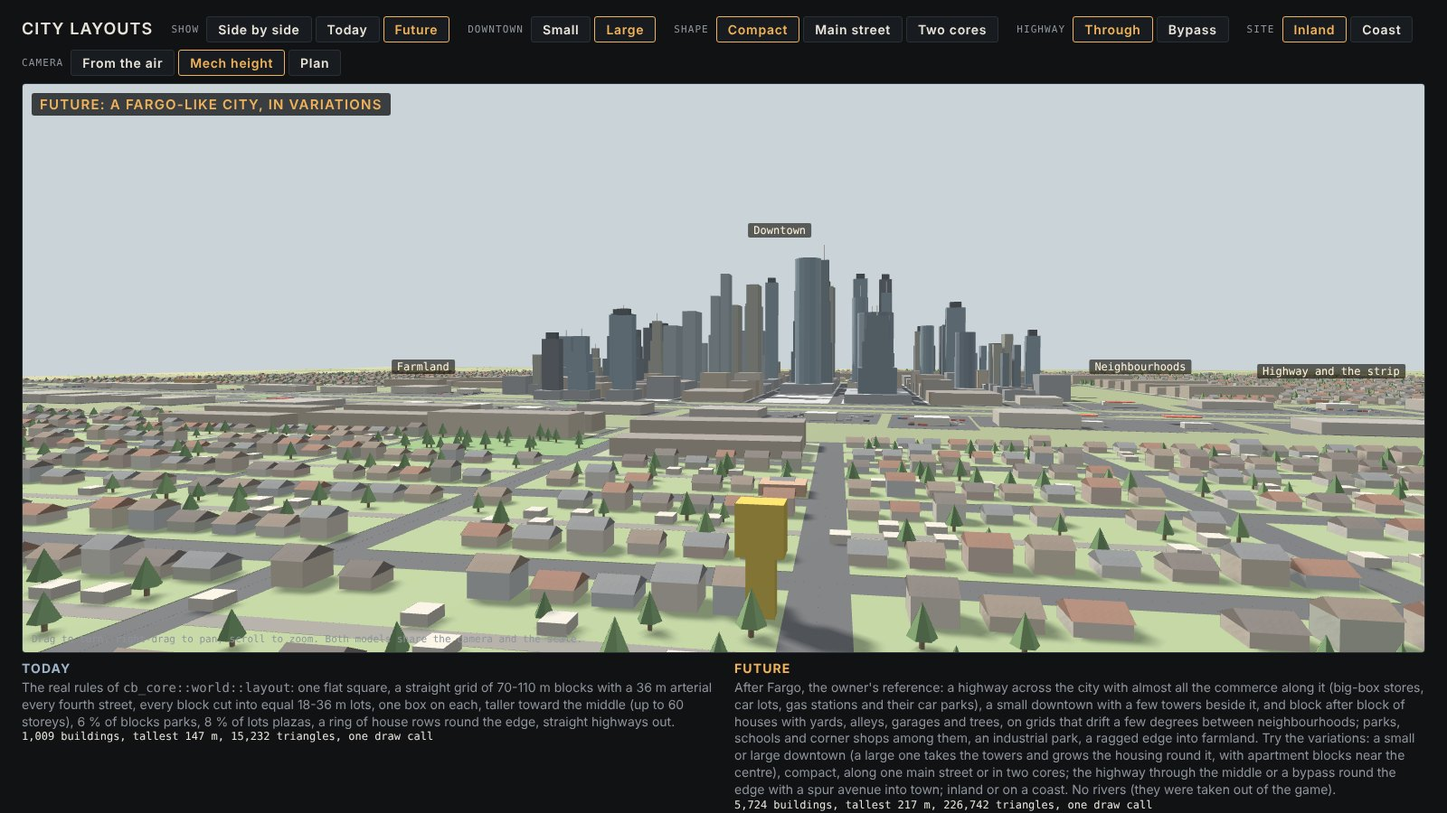
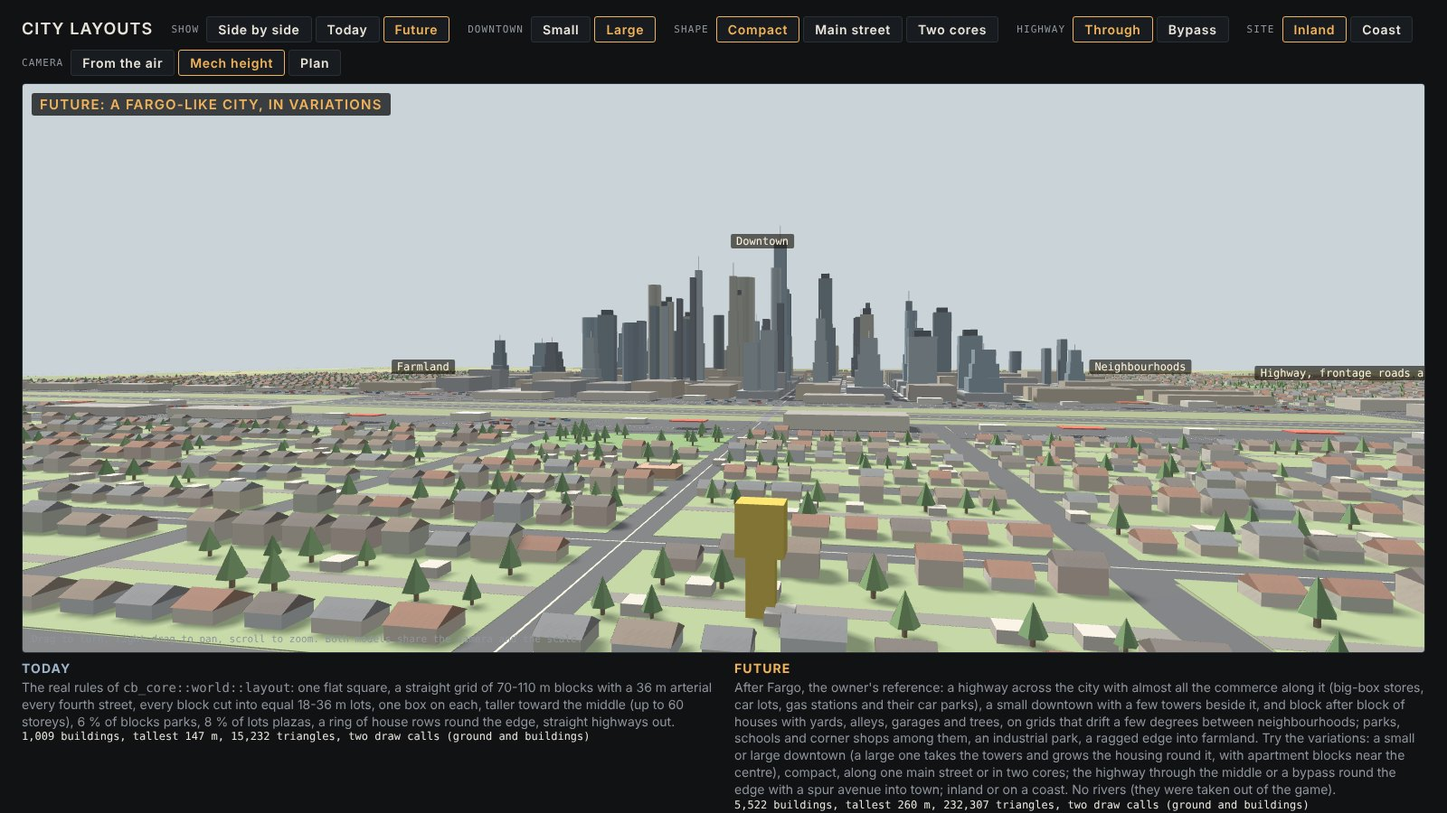
city-districts: one connected street network, every block built
The owner: "how do cars drive if the roads dont connect?", "theres a lot of dead space between the sections of the
city", "seems like a waste of land". The future city's streets come first now: one grid for the whole city, bent by
a slow warp (close to a grid but not quite), every block a cell of it (houses, downtown, strip, park, school, works,
flats), so every street joins the next and no land inside the edge lies empty. Frontage roads and an interchange at
every arterial join the highway; the arterials run on into the farmland as section roads that meet the bypass.

Claude-Session: https://claude.ai/code/session_01B11fSmuPQw2sggTxXyhryb

diff --git a/docs/artifacts/city-layouts/city_layouts.html b/docs/artifacts/city-layouts/city_layouts.html
@@ -260,15 +260,17 @@ function buildToday() {
   return g;
 }
 
-// ---------------------------------------------------------------- FUTURE: a Fargo-like city, in variations
+// ---------------------------------------------------------------- FUTURE: a Fargo-like city on one street network
 // After the owner's reference (2026-11-04, Fargo): "a smaller city with some tall buildings in the middle, and lots of
 // housing around. It is close to a grid but not quite, it has a highway cutting through the city ... where almost all
-// the commerce is centered around. houses are arranged in many blocks". Then: "have a couple of variations of larger
+// the commerce is centered around. houses are arranged in many blocks"; "have a couple of variations of larger
 // downtowns", "another kind of highway that doesnt quite cut through the downtown", "different shapes of downtowns",
-// "I also like the bigger downtown we had, but we would need to scale up housing to match". No rivers (they were taken
-// out of the game). Options: the downtown small or large (a large one grows the housing round it 1.45 times across),
-// its shape compact, along one main street, or two cores; the highway through the middle or a bypass round the south
-// with a spur avenue into town; inland or on a coast.
+// "scale up housing to match that larger downtown"; no rivers. Then: "how do cars drive if the roads dont connect?".
+// So the streets come first: one grid for the whole city, gently bent (close to a grid but not quite), every street
+// running on to the next; every block is a cell of it (houses, downtown, the strip, a park, a school, the works);
+// frontage roads join the highway, the arterials cross it at interchanges, and carry on into the farmland as section
+// roads that meet the bypass. Options: downtown small or large (a large one grows the city 1.45 times), its shape,
+// the highway through or a bypass with a spur avenue, inland or coast.
 function buildFuture(o) {
   const g = new Geo(), rnd = mulberry32(23), labels = [];
   const R = (a, b) => a + (b - a) * rnd(), pick = a => a[Math.floor(rnd() * a.length)];
@@ -276,185 +278,187 @@ function buildFuture(o) {
   function segDist(p, a, b) { const dx = b[0] - a[0], dz = b[1] - a[1], l2 = dx * dx + dz * dz;
     const t = Math.max(0, Math.min(1, ((p[0] - a[0]) * dx + (p[1] - a[1]) * dz) / l2)); return Math.hypot(p[0] - a[0] - dx * t, p[1] - a[1] - dz * t); }
   function lineDist(p, pts) { let d = 1e9; for (let i = 0; i + 1 < pts.length; i++) d = Math.min(d, segDist(p, pts[i], pts[i + 1])); return d; }
-  // walk a polyline every `step` metres: the point and the unit direction there
-  function walk(pts, step, fn) { for (let i = 0; i + 1 < pts.length; i++) { const [x0, z0] = pts[i], [x1, z1] = pts[i + 1], l = Math.hypot(x1 - x0, z1 - z0);
-    for (let t = 0; t < l; t += step()) fn([x0 + (x1 - x0) * t / l, z0 + (z1 - z0) * t / l], [(x1 - x0) / l, (z1 - z0) / l]); } }
+
+  // ---- the grid: blocks 118 x 74 m between 14 m streets (22 m arterials every fourth line), bent by a slow warp
+  const SU = 132, SV = 88, ST = 14, ART = 22;
+  const warp = (u, v) => [u + 28 * Math.sin(v / 900 + 0.4) + 14 * Math.sin(u / 1300 + 1.1), v + 24 * Math.sin(u / 800 + 2.0) + 12 * Math.sin(v / 1100)];
+  const node = (i, j) => warp(i * SU, j * SV);
+  const centre = (i, j) => warp((i + 0.5) * SU, (j + 0.5) * SV);
+  const N = Math.ceil(AREA / SU) + 1, M = Math.ceil(AREA / SV) + 1;
+  const artI = i => ((i % 4) + 4) % 4 === 0, artJ = j => ((j % 6) + 6) % 6 === 0;
 
   const edgeR = p => { const a = Math.atan2(p[1], p[0]); return S * (1020 + 110 * Math.sin(3 * a + 0.7) + 60 * Math.sin(7 * a + 2.1)); };
   const shoreZ = x => -S * 1180 + 60 * Math.sin(x / 290);
   const wet = p => COAST && p[1] < shoreZ(p[0]) + 10;
 
-  // farmland round the city
+  // ---- the highway: through the city south of the downtown, or a bypass round the south
+  const hwR = S * 1200;
+  let HW;
+  if (!BYPASS) HW = [[-AREA, -110], [-700, -80], [-200, -60], [300, -40], [800, -10], [AREA, 40]].map(([x, z]) => [x, z * S]);
+  else { HW = [[-AREA, -hwR * 0.42]]; for (let a = 200; a <= 340; a += 5) { const r = a * Math.PI / 180; HW.push([Math.cos(r) * hwR, Math.sin(r) * hwR * 0.82]); } HW.push([AREA, -hwR * 0.42]); }
+  const hwDist = p => lineDist(p, HW);
+
+  // ---- the downtown's cells, by shape and size
+  const down = new Map();          // "i,j" -> heart 0..1, core
+  const addDown = (i, j, heart, core = 0) => down.set(i + ',' + j, [heart, core]);
+  const j0 = BYPASS ? -1 : 1;      // north of a highway through the city
+  if (o.shape === 'compact') {
+    const ni = LARGE ? 7 : 4, nj = LARGE ? 7 : 4;
+    for (let i = 0; i < ni; i++) for (let j = 0; j < nj; j++) {
+      const di = (i - (ni - 1) / 2) / (ni / 2), dj = (j - (nj - 1) / 2) / (nj / 2);
+      if (di * di + dj * dj > 1.15) continue;
+      addDown(i - Math.floor(ni / 2), j0 + j, 1 - Math.min(1, Math.hypot(di, dj)));
+    }
+  } else if (o.shape === 'street') {
+    const n = LARGE ? 13 : 8, rows = LARGE ? 3 : 2;
+    for (let i = 0; i < n; i++) for (let j = 0; j < rows; j++) addDown(i - Math.floor(n / 2), j0 + j, 1 - Math.abs(i - (n - 1) / 2) / (n / 2) * 0.8);
+  } else {
+    const n = LARGE ? 4 : 3, cores = [[-Math.round(5 * S), j0], [Math.round(3 * S), j0 + Math.round(3 * S)]];
+    cores.forEach(([ci, cj], k) => { for (let i = 0; i < n; i++) for (let j = 0; j < n; j++) addDown(ci + i - 1, cj + j, 1 - Math.hypot(i - (n - 1) / 2, j - (n - 1) / 2) / n, k); });
+  }
+  const downCells = [...down.keys()].map(k => k.split(',').map(Number));
+  const downC = downCells.reduce((a, [i, j]) => { const c = centre(i, j); return [a[0] + c[0] / downCells.length, a[1] + c[1] / downCells.length]; }, [0, 0]);
+  const spurI = Math.round(downCells.reduce((a, [i]) => a + i, 0) / downCells.length / 4) * 4;   // an arterial line
+  const downJmin = Math.min(...downCells.map(([, j]) => j));
+
+  // ---- what each cell is
+  const kindCache = new Map();
+  function kind(i, j) {
+    const key = i + ',' + j; if (kindCache.has(key)) return kindCache.get(key);
+    const c = centre(i, j), r = Math.hypot(c[0], c[1]);
+    let k;
+    const corners = [node(i, j), node(i + 1, j), node(i, j + 1), node(i + 1, j + 1)];
+    if (corners.some(wet) || wet(c)) k = 'water';
+    else if (down.has(key)) k = 'down';
+    else if (r > edgeR(c)) k = 'rural';
+    else if (!BYPASS && corners.some(q => hwDist(q) < 34)) k = 'road';
+    else if (!BYPASS && hwDist(c) < 190) k = 'strip';
+    else if (BYPASS && (i === spurI || i === spurI - 1) && j < downJmin) k = 'strip';
+    else if (c[0] < -620 * S && Math.abs(c[1] - (BYPASS ? 200 : -260 * S)) < 190) k = 'works';
+    else {
+      const pr = mulberry32(5000 + (i + 60) * 197 + (j + 60));
+      const roll = pr(), dDown = Math.hypot(c[0] - downC[0], c[1] - downC[1]);
+      if (roll < 0.05 || (r > edgeR(c) - 130 && roll < 0.1)) k = 'park';
+      else if (roll < 0.075) k = 'school';
+      else if (LARGE && dDown < 650 && roll < 0.75) k = 'flats';
+      else k = 'houses';
+    }
+    kindCache.set(key, k); return k;
+  }
+  const built = (i, j) => !['rural', 'water', 'road'].includes(kind(i, j));
+
+  // farmland, the sea
   g.quad([-AREA, 0, -AREA], [AREA, 0, -AREA], [AREA, 0, AREA], [-AREA, 0, AREA], C.rural);
   for (let x = -AREA; x < AREA; x += 160) for (let z = -AREA; z < AREA; z += 160) {
     const c = [x + 80, z + 80];
-    if (Math.hypot(c[0], c[1]) < edgeR(c) - 40 || (COAST && z < shoreZ(c[0]) + 80)) continue;
-    g.box(c[0], c[1], 156, 156, 0, 0.03, col(pick(['#6f7d47', '#8a8a52', '#5d7040', '#9b9060', '#74804a'])));
+    if (Math.hypot(c[0], c[1]) < edgeR(c) + 60 || (COAST && z < shoreZ(c[0]) + 80)) continue;
+    g.box(c[0], c[1], 150, 150, 0, 0.03, col(pick(['#6f7d47', '#8a8a52', '#5d7040', '#9b9060', '#74804a'])));
   }
   if (COAST) { const sea = []; for (let x = -AREA; x <= AREA; x += 40) sea.push([x, shoreZ(x)]);
     for (let i = 0; i + 1 < sea.length; i++) g.quad([sea[i][0], 0.1, -AREA], [sea[i + 1][0], 0.1, -AREA], [sea[i + 1][0], 0.1, sea[i + 1][1]], [sea[i][0], 0.1, sea[i][1]], C.water);
     g.ribbon(sea.map(([x, z]) => [x, z + 8]), 18, 0.12, col('#c9b98f')); }
 
-  // ---- the downtown's blocks, by shape and size (92 m blocks, 14 m streets)
-  const B = 92, downBlocks = [];      // [centre x, z, heart 0..1, core]
-  if (o.shape === 'compact') {
-    const nx = LARGE ? 8 : 5, nz = LARGE ? 6 : 3, cx0 = 60, cz0 = (BYPASS ? -60 : 100) + (nz - 1) * B / 2;
-    for (let i = 0; i < nx; i++) for (let j = 0; j < nz; j++) {
-      const c = [cx0 + (i - (nx - 1) / 2) * B, cz0 + (j - (nz - 1) / 2) * B];
-      if (LARGE && (i === 0 || i === nx - 1) && (j === 0 || j === nz - 1)) continue;     // rounded corners
-      downBlocks.push([...c, 1 - Math.min(1, Math.hypot(c[0] - cx0, c[1] - cz0) / (B * (LARGE ? 4 : 2.4))), 0]);
-    }
-  } else if (o.shape === 'street') {
-    const n = LARGE ? 15 : 9, rows = LARGE ? 3 : 2, z0 = BYPASS ? -20 : 110;
-    for (let i = 0; i < n; i++) for (let j = 0; j < rows; j++) {
-      const c = [(i - (n - 1) / 2) * B, z0 + j * B + 0.04 * (i - n / 2) * B];         // the main street bends a little
-      downBlocks.push([...c, 1 - Math.abs(i - (n - 1) / 2) / (n / 2) * 0.8, 0]);
-    }
-  } else {
-    const cores = [[-300 * S, (BYPASS ? -40 : 140)], [320 * S, (BYPASS ? 120 : 240)]], n = LARGE ? 4 : 3;
-    cores.forEach(([cx, cz], k) => { for (let i = 0; i < n; i++) for (let j = 0; j < n; j++) {
-      const c = [cx + (i - (n - 1) / 2) * B, cz + (j - (n - 1) / 2) * B];
-      downBlocks.push([...c, 1 - Math.min(1, Math.hypot(c[0] - cx, c[1] - cz) / (B * n * 0.75)), k]);
-    } });
+  // ---- the streets: every grid segment beside a built cell; arterials and section roads run on through the farmland
+  const STREET = col('#2c2e32'), COUNTY = col('#55565a');
+  let segs = 0;
+  for (let i = -N; i <= N; i++) for (let j = -M; j < M; j++) {              // lines of constant u (running along v)
+    const a = node(i, j), b = node(i, j + 1), m = [(a[0] + b[0]) / 2, (a[1] + b[1]) / 2];
+    if (wet(m) || wet(a) || wet(b) || Math.max(Math.abs(a[0]), Math.abs(a[1]), Math.abs(b[0]), Math.abs(b[1])) > AREA) continue;
+    const cityside = built(i - 1, j) || built(i, j);
+    const nearHw = hwDist(m) < 40;
+    if (nearHw && !artI(i)) continue;                                        // only arterials cross the highway
+    if (cityside) { g.ribbon([a, b], artI(i) || i === spurI ? ART : ST, 0.06, STREET); segs++; if (artI(i)) g.ribbon([a, b], 0.6, 0.1, C.lane); }
+    else if (artI(i)) { g.ribbon([a, b], 9, 0.05, COUNTY); segs++; }       // a section road out in the fields
   }
-  const inDown = (p, pad = 50) => downBlocks.some(([x, z]) => Math.abs(p[0] - x) < B / 2 + pad && Math.abs(p[1] - z) < B / 2 + pad);
-  const downC = downBlocks.reduce((a, [x, z]) => [a[0] + x / downBlocks.length, a[1] + z / downBlocks.length], [0, 0]);
-
-  // ---- the highway: through the middle, beside the downtown; or a bypass round the south with a spur avenue in
-  const hwR = S * 1180;
-  let HW, SPUR = null;
-  if (!BYPASS) HW = [[-AREA, -70], [-700, -40], [-200, -10], [300, 15], [800, 45], [AREA, 95]].map(([x, z]) => [x, z * S]);
-  else {
-    HW = [[-AREA, -hwR * 0.42]];
-    for (let a = 200; a <= 340; a += 6) { const r = a * Math.PI / 180; HW.push([Math.cos(r) * hwR, Math.sin(r) * hwR * 0.82]); }
-    HW.push([AREA, -hwR * 0.42]);
-    SPUR = [[0, -hwR * 0.82], [10, -hwR * 0.5], [downC[0] * 0.5, -260], [downC[0], downC[1] - (B * 1.5)]];
+  for (let j = -M; j <= M; j++) for (let i = -N; i < N; i++) {              // lines of constant v (running along u)
+    const a = node(i, j), b = node(i + 1, j), m = [(a[0] + b[0]) / 2, (a[1] + b[1]) / 2];
+    if (wet(m) || wet(a) || wet(b) || Math.max(Math.abs(a[0]), Math.abs(a[1]), Math.abs(b[0]), Math.abs(b[1])) > AREA) continue;
+    if (!BYPASS && hwDist(m) < 40) continue;                                 // nothing runs along inside the highway
+    const cityside = built(i, j - 1) || built(i, j);
+    if (cityside) { g.ribbon([a, b], artJ(j) ? ART : ST, 0.07, STREET); segs++; if (artJ(j)) g.ribbon([a, b], 0.6, 0.11, C.lane); }
+    else if (artJ(j)) { g.ribbon([a, b], 9, 0.05, COUNTY); segs++; }
   }
-  const roads = SPUR ? [HW, SPUR] : [HW];
+  // the highway and its links: frontage roads alongside (through), an interchange where every arterial meets it
   g.ribbon(HW, 34, 0.3, C.highway); g.ribbon(HW, 0.8, 0.34, C.lane);
-  if (!BYPASS) for (const side of [-1, 1]) g.ribbon(HW.map(([x, z]) => [x, z + side * 46]), 12, 0.22, col('#2f3135'));
-  if (SPUR) { g.ribbon(SPUR, 26, 0.26, col('#2c2e32')); g.ribbon(SPUR, 0.8, 0.3, C.lane); const j = SPUR[0]; g.disk(j[0], j[1], 46, 0.28, C.highway, 20); g.disk(j[0], j[1], 26, 0.32, C.park, 16); }
-  else for (const x of [-700, -250, 250, 700]) { let z = 0; for (let i = 0; i + 1 < HW.length; i++) if (x >= HW[i][0] && x <= HW[i + 1][0]) z = HW[i][1] + (HW[i + 1][1] - HW[i][1]) * (x - HW[i][0]) / (HW[i + 1][0] - HW[i][0]);
-    g.disk(x, z, 40, 0.28, C.highway, 20); g.disk(x, z, 22, 0.32, C.park, 16); }
-  labels.push([BYPASS ? 'Bypass' : 'Highway and the strip', BYPASS ? [-hwR * 0.6, 40, -hwR * 0.7] : [-450, 40, -30]]);
-  if (SPUR) labels.push(['Spur avenue and the strip', [SPUR[1][0] + 60, 40, SPUR[1][1]]]);
+  if (!BYPASS) for (const side of [-1, 1]) { const f = HW.map(([x, z]) => [x, z + side * 30]).filter(p => Math.hypot(p[0], p[1]) < edgeR(p) + 40); if (f.length > 1) g.ribbon(f, 10, 0.24, STREET); }
+  for (let i = -N; i <= N; i++) { if (!artI(i)) continue;
+    for (let j = -M; j < M; j++) { const a = node(i, j), b = node(i, j + 1), m = [(a[0] + b[0]) / 2, (a[1] + b[1]) / 2];
+      if (hwDist(m) < 30 && !wet(m)) { g.disk(m[0], m[1], 46, 0.28, C.highway, 20); g.disk(m[0], m[1], 26, 0.32, C.park, 16); g.ribbon([a, b], 26, 1.4, col('#6d6a64')); } } }
+  labels.push([BYPASS ? 'Bypass' : 'Highway, frontage roads and the strip', BYPASS ? [-hwR * 0.6, 40, -hwR * 0.7] : [-450, 40, -60 * S]]);
+  if (BYPASS) labels.push(['Spur avenue and the strip', [...((p => [p[0] + 40, 40, p[1]])(centre(spurI, downJmin - 3)))].map((v, k) => k === 1 ? 40 : v)]);
+  labels.push(['Section roads', [AREA * 0.8, 10, -AREA * 0.35]]);
 
-  // ---- the strip: big-box stores, car lots and gas stations with their car parks, along the commerce road (the
-  // highway through the middle, or the spur avenue and the bypass near its interchange)
-  const stripLines = BYPASS ? [SPUR, HW.filter(([x]) => Math.abs(x) < 420)] : [HW];
-  const stripReach = BYPASS ? 150 : 190;
-  for (const line of stripLines) walk(line, () => R(70, 120), (p, d) => {
-    for (const side of [-1, 1]) {
-      const depth = R(70, 120), off = (BYPASS ? 24 : 56) + depth / 2, n = [-d[1] * side, d[0] * side];
-      const c = [p[0] + n[0] * off, p[1] + n[1] * off], ang = Math.atan2(d[1], d[0]);
-      if (Math.hypot(c[0], c[1]) > edgeR(c) + 60 || wet(c) || inDown(c, 30)) continue;
-      if (roads.some(r => r !== line && lineDist(c, r) < depth / 2 + 20)) continue;
-      const w = R(50, 100), toward = [-n[0], -n[1]];
-      g.box(c[0], c[1], w + 14, depth, 0, 0.05, C.asphalt, ang);
-      const back = [c[0] - toward[0] * depth * 0.2, c[1] - toward[1] * depth * 0.2], kind = rnd();
-      if (kind < 0.55) { const h = R(7, 11); g.box(back[0], back[1], w * 0.8, depth * 0.5, 0.05, h, col(pick(['#c9c2b2', '#b8b0a0', '#d3cbb8', '#a9a39a'])), ang, col('#7a7670')); g.note(h); }
-      else if (kind < 0.75) { g.box(back[0], back[1], 18, 10, 0.05, 4, col('#d8d8d2'), ang); g.box(c[0] + toward[0] * 14, c[1] + toward[1] * 14, 24, 14, 5.5, 0.8, col('#c8352a'), ang); g.note(6); }
-      else { g.box(back[0], back[1], 26, 18, 0.05, 6, col('#e2ddd2'), ang); for (let i = 0; i < 24; i++) { const u = R(-w / 2, w / 2), v = R(-depth / 3, depth / 6);
-        g.box(c[0] + d[0] * u + toward[0] * v, c[1] + d[1] * u + toward[1] * v, 4.6, 1.9, 0.05, 1.5, col(pick(['#b23a2e', '#2f5d8a', '#e9e6de', '#3a3a3a', '#8a8f96'])), ang); } g.note(6); }
-    }
-  });
-
-  // ---- downtown: a large one takes the towers we had before (setback tiers, round towers, twin slabs, crowns)
-  function tower(x, z, lw, ld, H, podium) {
+  // ---- buildings
+  function tower(x, z, lw, ld, H, podium, ang) {
     const style = rnd(), tw = Math.min(lw, ld) * R(0.5, 0.75), glass = col(pick(['#5f7c94', '#4c5f72', '#7d95a6', '#8a8f86', '#3f4a55']));
-    g.box(x, z, lw, ld, 0.25, podium, col('#7d858c'));
-    if (style < 0.35) { let y = podium, s2 = 1; for (let t = 0; t < 3; t++) { const hh = (H - podium) / 3; g.box(x, z, tw * s2, tw * s2 * R(0.8, 1.2), y, hh, glass); y += hh; s2 *= 0.78; } g.cyl(x, z, 0.6, y, H * 0.12, col('#d9d9d9'), 4); }
+    g.box(x, z, lw, ld, 0.25, podium, col('#7d858c'), ang);
+    if (style < 0.35) { let y = podium, s2 = 1; for (let t = 0; t < 3; t++) { const hh = (H - podium) / 3; g.box(x, z, tw * s2, tw * s2 * R(0.8, 1.2), y, hh, glass, ang); y += hh; s2 *= 0.78; } g.cyl(x, z, 0.6, y, H * 0.12, col('#d9d9d9'), 4); }
     else if (style < 0.55) g.cyl(x, z, tw / 2, podium, H - podium, glass, 14);
-    else if (style < 0.75) { g.box(x - lw / 5, z, tw * 0.45, tw, podium, H - podium, glass); g.box(x + lw / 5, z, tw * 0.45, tw, podium, (H - podium) * 0.8, glass); }
-    else { g.box(x, z, tw, tw * 0.6, podium, H - podium, glass); g.box(x, z, tw * 0.6, tw * 0.4, H, 8, col('#2e353c')); }
+    else if (style < 0.75) { const dx = Math.cos(ang) * lw / 5, dz = Math.sin(ang) * lw / 5; g.box(x - dx, z - dz, tw * 0.45, tw, podium, H - podium, glass, ang); g.box(x + dx, z + dz, tw * 0.45, tw, podium, (H - podium) * 0.8, glass, ang); }
+    else { g.box(x, z, tw, tw * 0.6, podium, H - podium, glass, ang); g.box(x, z, tw * 0.6, tw * 0.4, H, 8, col('#2e353c'), ang); }
     g.note(H * 1.1);
   }
-  for (const [cx, cz, heart, core] of downBlocks) {
-    g.box(cx, cz, B, B, 0, 0.04, C.asphalt); g.box(cx, cz, B - 14, B - 14, 0, 0.25, C.pavement);
-    const old = o.shape === 'twin' && core === 0;           // the twin's old core stays low and brick
-    const lots = rnd() < 0.5 ? [[-19, -19, 36], [19, -19, 36], [-19, 19, 36], [19, 19, 36]] : [[0, 0, 74]];
-    for (const [lx, lz, size] of lots) {
-      if (rnd() < 0.1) continue;
-      const towerChance = old ? 0.05 : (LARGE ? 0.3 + 0.6 * heart : 0.15 + 0.4 * heart);
-      if (rnd() < towerChance) {
-        const H = LARGE ? 60 + heart * R(80, 190) : 40 + heart * R(20, 50);
-        tower(cx + lx, cz + lz, size - 2, size - 2, H, R(9, 16));
-      } else {
-        const h = (old ? R(3, 7) : R(3, 8)) * 3.8, k2 = col(old ? pick(['#a8714f', '#9b5a43', '#b5865f', '#8e4b32']) : pick(['#a99a86', '#8f8a82', '#b7a58b', '#7d8790', '#c2b8a6']));
-        g.box(cx + lx, cz + lz, size - 2, size - 2, 0.25, h, k2, 0, col('#5f5a55')); g.note(h);
+  const BW = SU - ST, BD = SV - ST, ALLEY = 6;
+  for (let i = -N; i < N; i++) for (let j = -M; j < M; j++) {
+    const k = kind(i, j); if (!built(i, j)) continue;
+    // the cell's own frame: its centre, and its axes from the bent grid
+    const c = centre(i, j), ex0 = warp((i + 1) * SU, (j + 0.5) * SV), ez0 = warp((i + 0.5) * SU, (j + 1) * SV);
+    const ex = [(ex0[0] - c[0]) / (SU / 2), (ex0[1] - c[1]) / (SU / 2)], ez = [(ez0[0] - c[0]) / (SV / 2), (ez0[1] - c[1]) / (SV / 2)];
+    const ang = Math.atan2(ex[1], ex[0]);
+    const W = (x, z) => [c[0] + ex[0] * x + ez[0] * z, c[1] + ex[1] * x + ez[1] * z];
+    const pr = mulberry32(9000 + (i + 60) * 211 + (j + 60));
+    const ground = { down: C.pavement, strip: C.asphalt, works: col('#8d8b84'), park: C.park, school: col('#6f9150'), flats: col('#7f8f63'), houses: col('#6f8a4f') }[k];
+    g.box(c[0], c[1], BW, BD, 0, 0.2, ground, ang);
+    if (k === 'down') {
+      const [heart, core] = down.get(i + ',' + j), old = o.shape === 'twin' && core === 0;
+      const lots = pr() < 0.5 ? [[-30, -18, 54, 32], [30, -18, 54, 32], [-30, 18, 54, 32], [30, 18, 54, 32]] : [[-30, 0, 54, 70], [30, 0, 54, 70]];
+      for (const [lx, lz, lw, ld] of lots) {
+        if (pr() < 0.08) continue;
+        const q = W(lx, lz), towerChance = old ? 0.05 : (LARGE ? 0.3 + 0.6 * heart : 0.12 + 0.4 * heart);
+        if (pr() < towerChance) tower(q[0], q[1], lw - 2, ld - 2, LARGE ? 60 + heart * R(80, 190) : 40 + heart * R(15, 50), R(9, 16), ang);
+        else { const h = R(3, old ? 7 : 8) * 3.8; g.box(q[0], q[1], lw - 2, ld - 2, 0.25, h, col(old ? pick(['#a8714f', '#9b5a43', '#b5865f', '#8e4b32']) : pick(['#a99a86', '#8f8a82', '#b7a58b', '#7d8790', '#c2b8a6'])), ang, col('#5f5a55')); g.note(h); }
       }
-    }
-  }
-  if (o.shape === 'twin') { labels.push(['Old core', [-300 * S, 60, BYPASS ? -40 : 140]]); labels.push(['New core', [320 * S, 200, BYPASS ? 120 : 240]]); }
-  else labels.push([o.shape === 'street' ? 'Downtown main street' : 'Downtown', [downC[0], LARGE ? 240 : 140, downC[1]]]);
-
-  // ---- neighbourhoods: house blocks on grids that drift a few degrees, patch by patch
-  const PATCH = 520, BW = 118, BD = 74, ST = 14, ALLEY = 6;
-  const span = Math.ceil(1400 * S / PATCH);
-  const indZ = BYPASS ? 200 : -230 * S;                    // the industrial park, at the highway's west end
-  const INDUSTRY = p => p[0] < -650 * S && Math.abs(p[1] - indZ) < 200;
-  for (let px = -span; px <= span; px++) for (let pz = -span; pz <= span; pz++) {
-    const pr = mulberry32(1000 + (px + 9) * 31 + (pz + 9));
-    const ang = (pr() - 0.5) * 0.09, ox = pr() * 40, oz = pr() * 30, cs = Math.cos(ang), sn = Math.sin(ang);
-    const base = [px * PATCH, pz * PATCH];
-    for (let i = -3; i <= 3; i++) for (let j = -4; j <= 4; j++) {
-      const u = i * (BW + ST) + ox, v = j * (BD + ST) + oz;
-      const c = [base[0] + u * cs - v * sn, base[1] + u * sn + v * cs];
-      if (Math.abs(c[0] - base[0]) > PATCH / 2 || Math.abs(c[1] - base[1]) > PATCH / 2) continue;
-      const r = Math.hypot(c[0], c[1]), edge = edgeR(c);
-      if (r > edge) continue;
-      const corners = [[-1, -1], [1, -1], [1, 1], [-1, 1]].map(([a, b2]) => [c[0] + a * BW / 2 * cs - b2 * BD / 2 * sn, c[1] + a * BW / 2 * sn + b2 * BD / 2 * cs]);
-      const near = q => roads.some(rd => lineDist(q, rd) < (rd === HW && !BYPASS ? stripReach : rd === SPUR ? stripReach : 40)) ||
-        (BYPASS && Math.abs(q[0]) < 420 && lineDist(q, HW) < stripReach);
-      if ([c, ...corners].some(q => near(q) || wet(q) || inDown(q))) continue;
-      const W = (x, z) => [c[0] + x * cs - z * sn, c[1] + x * sn + z * cs];
-      g.box(c[0], c[1], BW + ST, BD + ST, 0, 0.04 + 0.003 * ((px + pz + 18) % 5), C.asphalt, ang);
-      if (INDUSTRY(c)) {
-        g.box(c[0], c[1], BW, BD, 0, 0.2, col('#8d8b84'), ang);
-        const h = R(8, 13); g.box(c[0], c[1], BW * 0.8, BD * 0.6, 0.2, h, col(pick(['#8a7f70', '#9a948a', '#7d7468'])), ang, col('#6a6660')); g.note(h);
-        continue;
-      }
-      const roll = pr();
-      if (roll < 0.05 || (r > edge - 120 && roll < 0.1)) {
-        g.box(c[0], c[1], BW, BD, 0, 0.2, C.park, ang);
-        for (let t = 0; t < 22; t++) { const q = W(R(-BW / 2 + 4, BW / 2 - 4), R(-BD / 2 + 4, BD / 2 - 4)); g.tree(q[0], q[1], R(0.9, 1.4), col('#3f6a34')); }
-        continue;
-      }
-      if (roll < 0.075) {
-        g.box(c[0], c[1], BW, BD, 0, 0.2, col('#6f9150'), ang);
-        const q = W(-BW / 4, 0); g.box(q[0], q[1], 50, 40, 0.2, 9, col('#b9894f'), ang, col('#6a5d50')); g.note(9);
-        const f = W(BW / 4, 0); g.box(f[0], f[1], 46, 60, 0.2, 0.05, col('#5f8c3d'), ang);
-        continue;
-      }
-      // near a large downtown, apartment blocks (three to five storeys) instead of houses, so the housing scales
-      const dDown = Math.hypot(c[0] - downC[0], c[1] - downC[1]);
-      if (LARGE && dDown < 700 && pr() < 0.7) {
-        g.box(c[0], c[1], BW, BD, 0, 0.2, col('#7f8f63'), ang);
-        for (const side of [-1, 1]) { const q = W(0, side * (BD / 4)); const h = Math.round(R(3, 5)) * 3.1;
-          g.box(q[0], q[1], BW - 16, BD / 2 - 12, 0.2, h, col(pick(['#b9a88f', '#a8977f', '#c4b49b', '#9f8f7c'])), ang, col('#5f5a55')); g.note(h); }
-        continue;
-      }
-      g.box(c[0], c[1], BW, BD, 0, 0.2, col('#6f8a4f'), ang);
-      const alley = W(0, 0); g.box(alley[0], alley[1], BW, ALLEY, 0.2, 0.04, col('#5a5853'), ang);
+    } else if (k === 'strip') {
+      for (let t = -BW / 2 + 6; t < BW / 2 - 4; t += 5) { const q = W(t, -BD * 0.15); g.box(q[0], q[1], 0.3, 10, 0.2, 0.03, col('#d8d4c6'), ang); }
+      const kd = pr();
+      if (kd < 0.55) { const q = W(0, BD * 0.18), h = R(7, 11); g.box(q[0], q[1], BW * 0.75, BD * 0.5, 0.2, h, col(pick(['#c9c2b2', '#b8b0a0', '#d3cbb8', '#a9a39a'])), ang, col('#7a7670')); g.note(h); }
+      else if (kd < 0.75) { const q = W(BW / 4, BD / 5); g.box(q[0], q[1], 18, 10, 0.2, 4, col('#d8d8d2'), ang); const r2 = W(-BW / 6, -BD / 6); g.box(r2[0], r2[1], 26, 14, 5.5, 0.8, col('#c8352a'), ang); g.note(6); }
+      else { const q = W(BW / 3, BD / 4); g.box(q[0], q[1], 26, 18, 0.2, 6, col('#e2ddd2'), ang); for (let n = 0; n < 26; n++) { const r2 = W(R(-BW / 2 + 4, BW / 5), R(-BD / 2 + 4, BD / 2 - 4)); g.box(r2[0], r2[1], 4.6, 1.9, 0.2, 1.5, col(pick(['#b23a2e', '#2f5d8a', '#e9e6de', '#3a3a3a', '#8a8f96'])), ang); } g.note(6); }
+    } else if (k === 'works') {
+      const q = W(0, 0), h = R(8, 13); g.box(q[0], q[1], BW * 0.8, BD * 0.62, 0.2, h, col(pick(['#8a7f70', '#9a948a', '#7d7468'])), ang, col('#6a6660')); g.note(h);
+    } else if (k === 'park') {
+      for (let t = 0; t < 22; t++) { const q = W(R(-BW / 2 + 4, BW / 2 - 4), R(-BD / 2 + 4, BD / 2 - 4)); g.tree(q[0], q[1], R(0.9, 1.4), col('#3f6a34')); }
+    } else if (k === 'school') {
+      const q = W(-BW / 4, 0); g.box(q[0], q[1], 50, 40, 0.2, 9, col('#b9894f'), ang, col('#6a5d50')); g.note(9);
+      const f = W(BW / 4, 0); g.box(f[0], f[1], 46, 60, 0.2, 0.05, col('#5f8c3d'), ang);
+    } else if (k === 'flats') {
+      for (const side of [-1, 1]) { const q = W(0, side * (BD / 4)), h = Math.round(R(3, 5)) * 3.1;
+        g.box(q[0], q[1], BW - 16, BD / 2 - 12, 0.2, h, col(pick(['#b9a88f', '#a8977f', '#c4b49b', '#9f8f7c'])), ang, col('#5f5a55')); g.note(h); }
+    } else {
+      const al = W(0, 0); g.box(al[0], al[1], BW, ALLEY, 0.2, 0.04, col('#5a5853'), ang);
       for (const side of [-1, 1]) {
         let t = -BW / 2 + 2;
         while (t < BW / 2 - 10) {
           const lot = R(13, 17);
           if (pr() > 0.06) {
-            const q = W(t + lot / 2, side * (BD / 2 - 12)), hw2 = R(8, 11), hd = R(8, 10), storeys = pr() < 0.25 ? 2 : 1, h = storeys * 3.1;
-            const k = col(pick(['#d6cdb8', '#c4b49b', '#b5c0c4', '#d9c9a5', '#c9a99a', '#e1ddd2', '#a7b39b', '#c8b8a0']));
-            g.box(q[0], q[1], hw2, hd, 0.2, h, k, ang); g.gable(q[0], q[1], hw2 + 0.6, hd + 0.6, h + 0.2, 2.6, col(pick(['#5b5f63', '#6b5a4c', '#4f4743', '#7a4a3a'])), ang); g.note(h + 2.6);
+            const q = W(t + lot / 2, side * (BD / 2 - 12)), hw2 = R(8, 11), hd = R(8, 10), h = (pr() < 0.25 ? 2 : 1) * 3.1;
+            g.box(q[0], q[1], hw2, hd, 0.2, h, col(pick(['#d6cdb8', '#c4b49b', '#b5c0c4', '#d9c9a5', '#c9a99a', '#e1ddd2', '#a7b39b', '#c8b8a0'])), ang);
+            g.gable(q[0], q[1], hw2 + 0.6, hd + 0.6, h + 0.2, 2.6, col(pick(['#5b5f63', '#6b5a4c', '#4f4743', '#7a4a3a'])), ang); g.note(h + 2.6);
             if (pr() < 0.55) { const tq = W(t + lot / 2 + R(-4, 4), side * (BD / 2 - 27)); g.tree(tq[0], tq[1], R(0.8, 1.3), col(pick(['#3f6a34', '#4a7a3a', '#365e2e']))); }
             if (pr() < 0.35) { const gq = W(t + lot / 2 + hw2 / 2 + 2, side * (ALLEY / 2 + 4)); g.box(gq[0], gq[1], 6, 6, 0.2, 2.6, col('#bdb6a8'), ang); }
           }
           t += lot;
         }
       }
-      if (((i % 4) + 4) % 4 === 0 && pr() < 0.4) { const q = W(-BW / 2 + 10, -BD / 2 + 9); g.box(q[0], q[1], 18, 14, 0.2, 4.5, col('#b07a5a'), ang); g.note(4.5); }
+      if (artI(i) && pr() < 0.4) { const q = W(-BW / 2 + 10, -BD / 2 + 9); g.box(q[0], q[1], 18, 14, 0.2, 4.5, col('#b07a5a'), ang); g.note(4.5); }
     }
   }
+  if (o.shape === 'twin') { const cs = [0, 1].map(k => downCells.filter(([i, j]) => down.get(i + ',' + j)[1] === k));
+    cs.forEach((cells, k) => { const m = cells.reduce((a, [i, j]) => { const c = centre(i, j); return [a[0] + c[0] / cells.length, a[1] + c[1] / cells.length]; }, [0, 0]);
+      labels.push([k ? 'New core' : 'Old core', [m[0], k ? 200 : 70, m[1]]]); }); }
+  else labels.push([o.shape === 'street' ? 'Downtown main street' : 'Downtown', [downC[0], LARGE ? 240 : 140, downC[1]]]);
   labels.push(['Neighbourhoods', [-420 * S, 30, 560 * S]]);
-  labels.push(['Industrial park', [-860 * S, 40, indZ]]);
+  labels.push(['Industrial park', [-860 * S, 40, BYPASS ? 200 : -260 * S]]);
   labels.push(['Farmland', [AREA * 0.75, 10, AREA * 0.75]]);
   if (COAST) {
     for (let x = 300; x < 700; x += 70) { const z = shoreZ(x) + 26; g.box(x - 6, z, 2, 2, 0, 30, col('#d9a12b')); g.box(x + 6, z, 2, 2, 0, 30, col('#d9a12b')); g.box(x, z - 12, 3, 50, 30, 3, col('#d9a12b')); g.note(33); }

diff --git a/openspec/changes/city-districts/design.md b/openspec/changes/city-districts/design.md
@@ -17,14 +17,15 @@ The ground only receives shadows and the buildings cast them.
 | Part | Rule |
 | --- | --- |
 | Extent | radius 1,020 m with a ragged edge (+/- 170 m), 1.45 times that with a large downtown |
-| House blocks | 118 x 74 m, 14 m streets, a 6 m alley, two rows of houses on 13-17 m lots (8-11 x 8-10 m, one or two storeys, pitched roofs), trees in the yards, garages on the alley |
-| Grid drift | 520 m neighbourhoods, each turned up to 2.6 degrees and nudged up to 40 m |
+| Street network | one grid for the whole city (cells 132 x 88 m: 14 m streets, a 22 m arterial every fourth line across and every sixth along), bent by a slow warp of up to about 40 m, so it is close to a grid but not quite and every street runs on to the next (owner: "how do cars drive if the roads dont connect?"); every cell inside the edge is built, so no land lies empty between parts of the city (owner: "a lot of dead space between the sections of the city", "seems like a waste of land") |
+| Links | through: frontage roads 30 m each side of the highway, only arterials cross it, an interchange at each; the arterials carry on into the farmland as section roads, which meet the bypass |
+| House blocks | 118 x 74 m, a 6 m alley, two rows of houses on 13-17 m lots (8-11 x 8-10 m, one or two storeys, pitched roofs), trees in the yards, garages on the alley |
 | In the blocks | parks 5 % (10 % near the edge), schools 2.5 %, corner shops on every fourth street |
-| Strip | along the commerce road, lots 70-120 m deep: a big box (55 %), a gas station (20 %) or a car lot (25 %), each with its car park |
+| Strip | the cells within 190 m of the highway (through), or the two rows of cells along the spur avenue (bypass): a big box (55 %), a gas station (20 %) or a car lot (25 %), each with its car park |
 | Highway through | 34 m, frontage roads 46 m out, an interchange every 450-500 m; no houses within 190 m |
 | Bypass | 34 m round the south at 1.18 times the city's radius, a 26 m spur avenue to the downtown, the strip along the spur and near the interchange |
-| Downtown, small | 92 m blocks; compact 5 x 3, main street 9 x 2, two cores 3 x 3 each; towers 40-90 m |
-| Downtown, large | compact 8 x 6 with rounded corners, main street 15 x 3, two cores 4 x 4; towers 60-250 m; apartment blocks of 3-5 storeys within 700 m |
+| Downtown, small | cells of the same grid; compact about 4 x 4 (rounded), main street 8 x 2, two cores 3 x 3 each; towers 40-90 m |
+| Downtown, large | compact about 7 x 7 (rounded), main street 13 x 3, two cores 4 x 4; towers 60-260 m; apartment blocks of 3-5 storeys within 650 m |
 | Industrial park | blocks of sheds 8-13 m tall at the highway's west end |
 | Coast | the sea south of the city, a beach, a small harbour of quay cranes |
 

diff --git a/openspec/changes/city-districts/tasks.md b/openspec/changes/city-districts/tasks.md
@@ -3,6 +3,7 @@
 - [x] 1.1 The mockup: today's generator beside the future city, on one camera at true scale
 - [x] 1.2 After the owner's notes and the Fargo reference: no river, visible streets, no slab or ring; a highway with the commerce, a downtown beside it, house blocks on drifting grids, farmland
 - [x] 1.3 Variations: small and large downtowns, three shapes, a bypass highway, inland or coast; housing scales with a large downtown
+- [x] 1.3a One connected street network: every block a cell of one bent grid, frontage roads and interchanges, section roads into the farmland, no empty land between parts of the city
 - [ ] 1.4 The owner's pick of the look (CD1)
 - [ ] 1.5 Design the generator change: the city record, roads and lanes, collision, lamps, small buildings, building types, LODs, destruction, the defence mission
 - [ ] 1.6 Measure the cost of a large city on the owner's machine

diff --git a/openspec/changes/city-districts/specs/city-districts/spec.md b/openspec/changes/city-districts/specs/city-districts/spec.md
@@ -29,3 +29,13 @@ A city SHALL have no river, and the sea and a harbour only where it stands on th
 #### Scenario: An inland city
 - **WHEN** a city stands inland
 - **THEN** no water runs through it and no quay cranes stand in it
+
+### Requirement: One connected street network
+
+Every street of a city SHALL join the rest of its network, and the network SHALL join the highway (through frontage roads
+and interchanges, or through section roads to a bypass); no land inside a city's edge SHALL be left unbuilt between its
+parts.
+
+#### Scenario: Driving from a house to the highway
+- **WHEN** a car leaves any house block
+- **THEN** it can reach the highway on streets alone, without crossing a kerb or open ground
